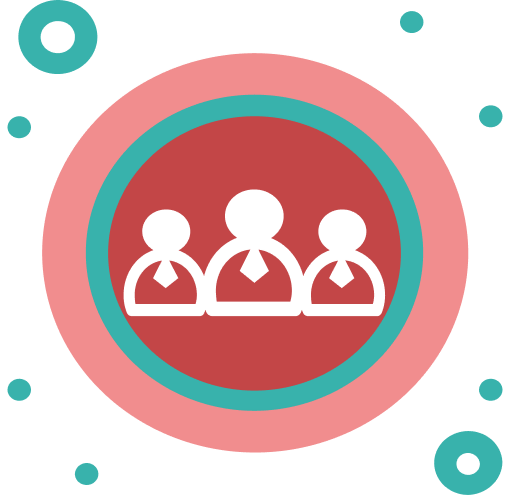
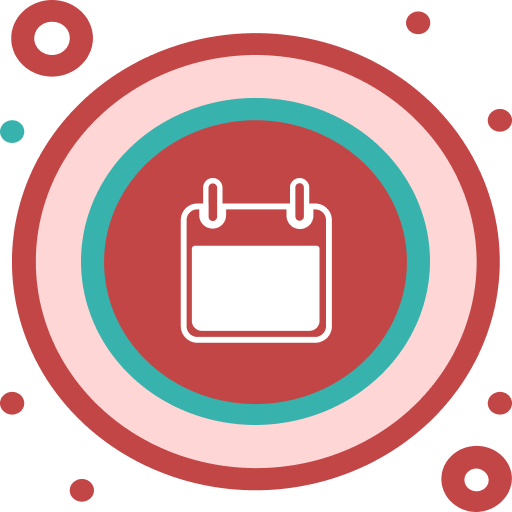
Perbaikan Ikon dan Margin

diff --git a/components/CardApps/index.js b/components/CardApps/index.js
@@ -54,7 +54,7 @@ export const CardApps = ({ handlePressModal }) => {
                 <View style={{ justifyContent: 'center', alignItems: 'center', display: 'flex' }}>
                     <TouchableOpacity onPress={() => navigation.navigate('MainRepo')}>
                         <View style={[styles.cardApps, { backgroundColor: COLORS.secondary, justifyContent: 'center', alignItems: 'center', display: 'flex' }]}>
-                        <Image style={{ width: 28, height: 28}} source={require('../../assets/superApp/kebijakan-ikon.png')} />
+                        <Image style={{ width: 28, height: 28}} source={require('../../assets/superApp/preparing-ikon.png')} />
                         </View>
                     </TouchableOpacity>
                     <Text style={{ marginTop: 10, justifyContent: 'center', alignItems: 'center', fontSize: FONTSIZE.H4 }}>Repositori</Text>

diff --git a/Apps/Kalender/GrupKalender.js b/Apps/Kalender/GrupKalender.js
@@ -307,6 +307,8 @@ export const GrupKalender = () => {
                               gap: 10,
                               alignItems: "center",
                               justifyContent: "space-between",
+                              marginBottom: 20
+                              
                             }}
                           >
                             <TouchableOpacity
